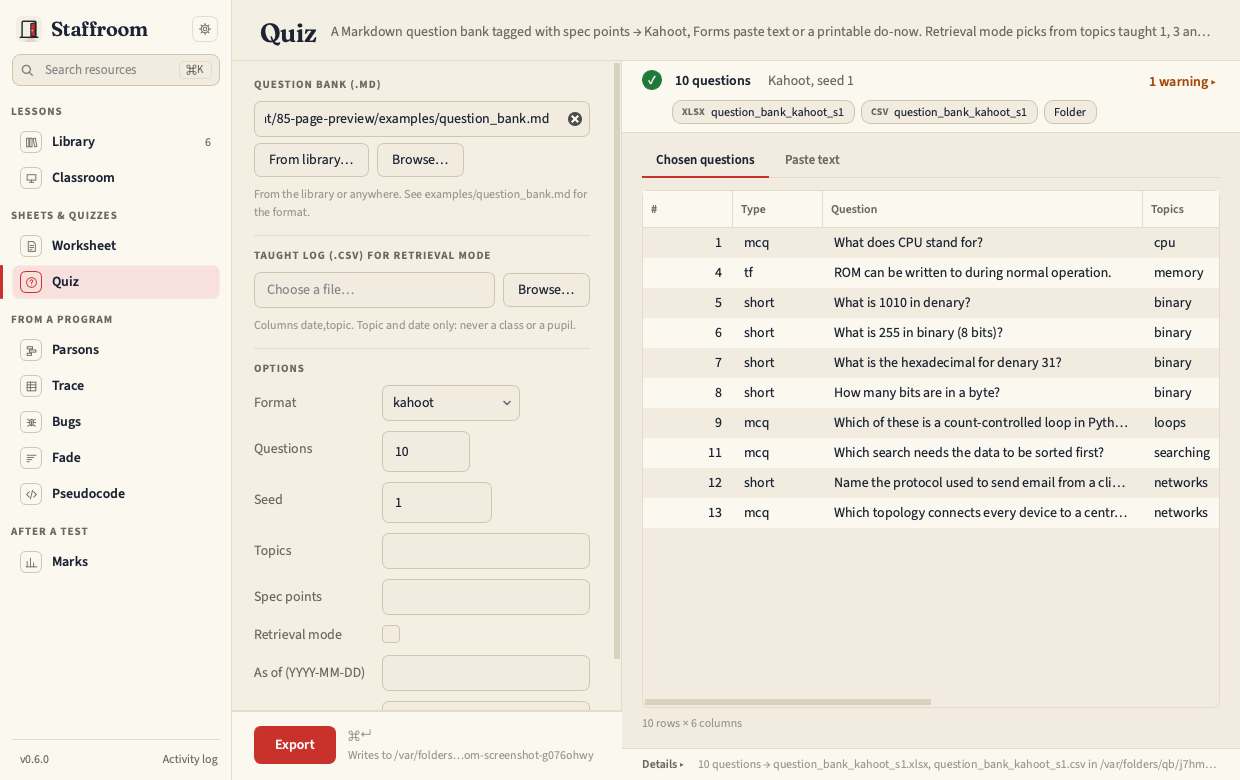
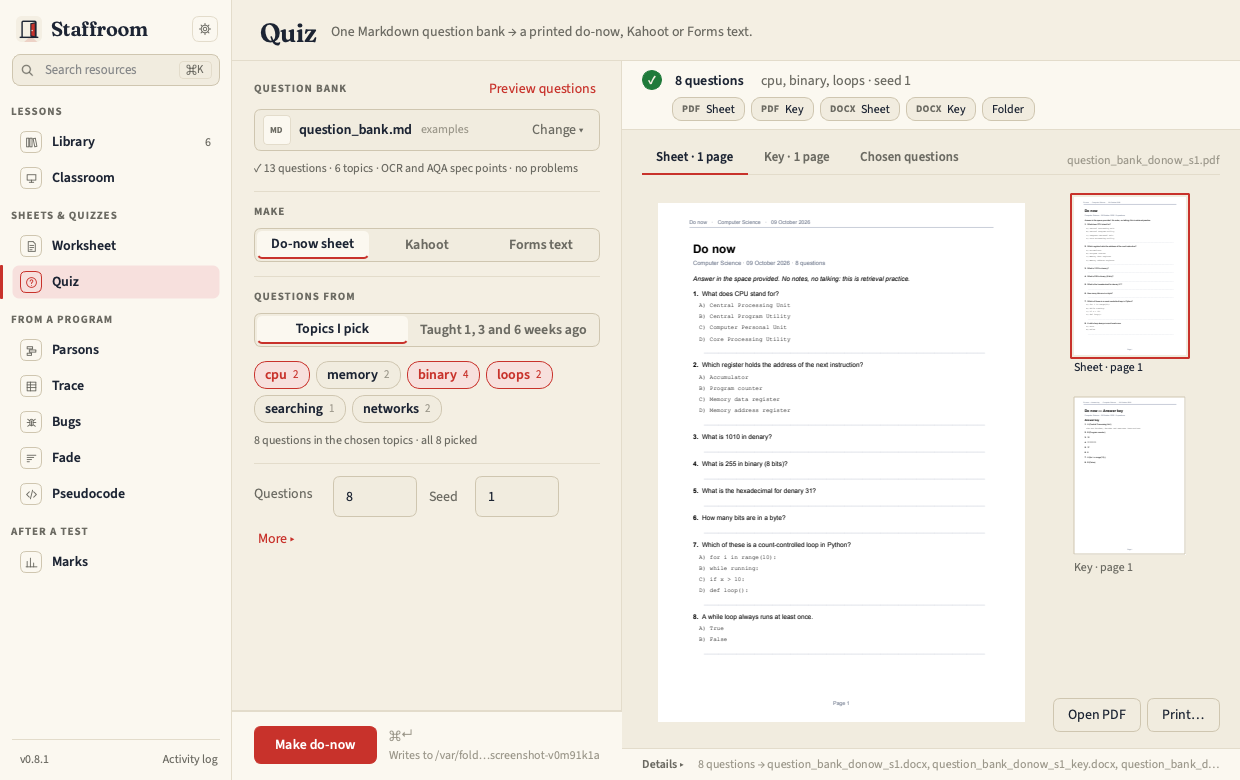
docs: quiz screenshot, before/after comparisons, changelog (#17)

diff --git a/CHANGELOG.md b/CHANGELOG.md
@@ -49,6 +49,19 @@ later entries refer to this repository's issues.
   versions up to 0.8.1, where they opened unrelated issues here; a test (and
   `scripts/release.py check`) fails if one comes back or a version lacks its summary, and
   `just release` refuses an Unreleased section without one (#10).
+- Quiz starts from the bank: it shows as a chip that says what was found in it
+  (*13 questions · 6 topics · OCR and AQA spec points · no problems*, or the first problem
+  with its line) with *Preview questions*; *Make* is a switch with the **do-now sheet**
+  first (the default until the Kahoot import is checked, #1); *Questions from* is either
+  the bank's own topics as chips with counts and a running total (no more typing tag
+  names) or *Taught 1, 3 and 6 weeks ago*, which shows the taught log, the date and what
+  each week held instead of a *Retrieval mode* tick box. *Questions* and *Seed* share a
+  row; spec points and the title are under *More*; the button says what it makes. The
+  do-now's *Sheet* and *Key* come first, then the chosen questions as numbered on the
+  sheet. The command line's flags, defaults and file names are unchanged. For tools: a
+  `ChipChoice` input, `PanelSpec.inspect` (what a tool found in its inputs, shown beside
+  them), `PanelSpec.joined`, `ResourcePicker(chip=True)`, and `OptionsForm(inline=...,
+  more=...)` (#17).
 
 ### Changed
 - Trace's completed table and the bugs key fit the screen (#16). Trace lifts a value
